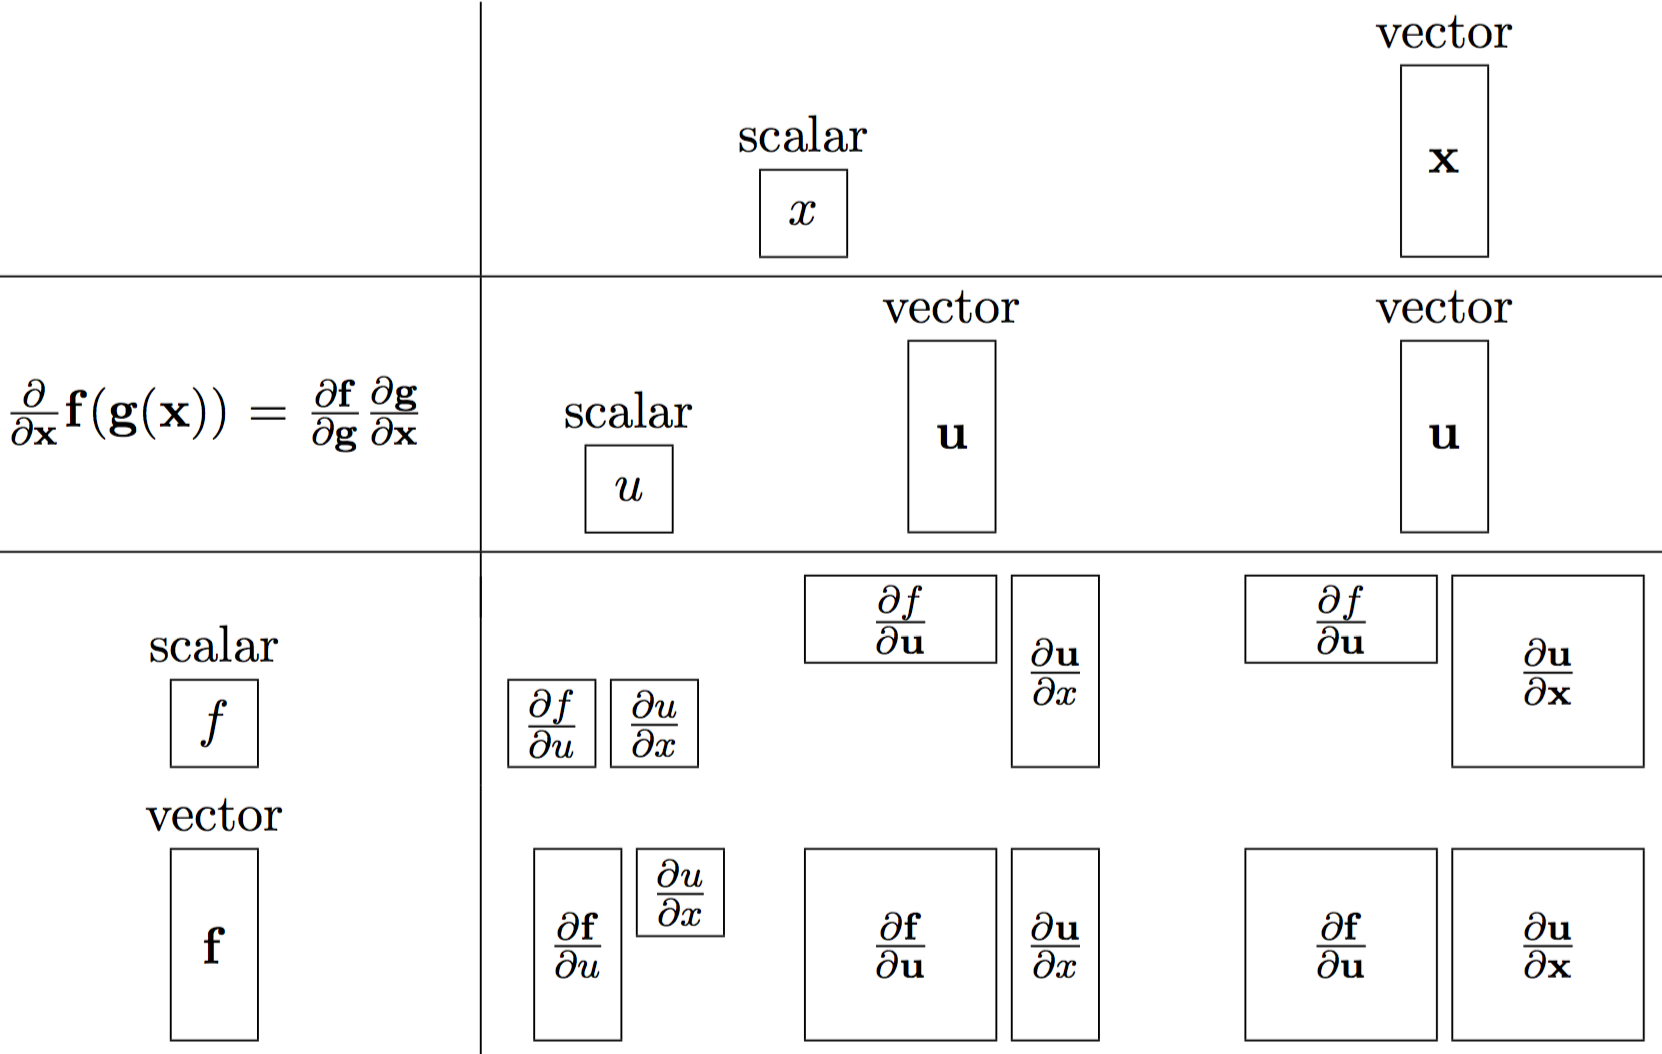
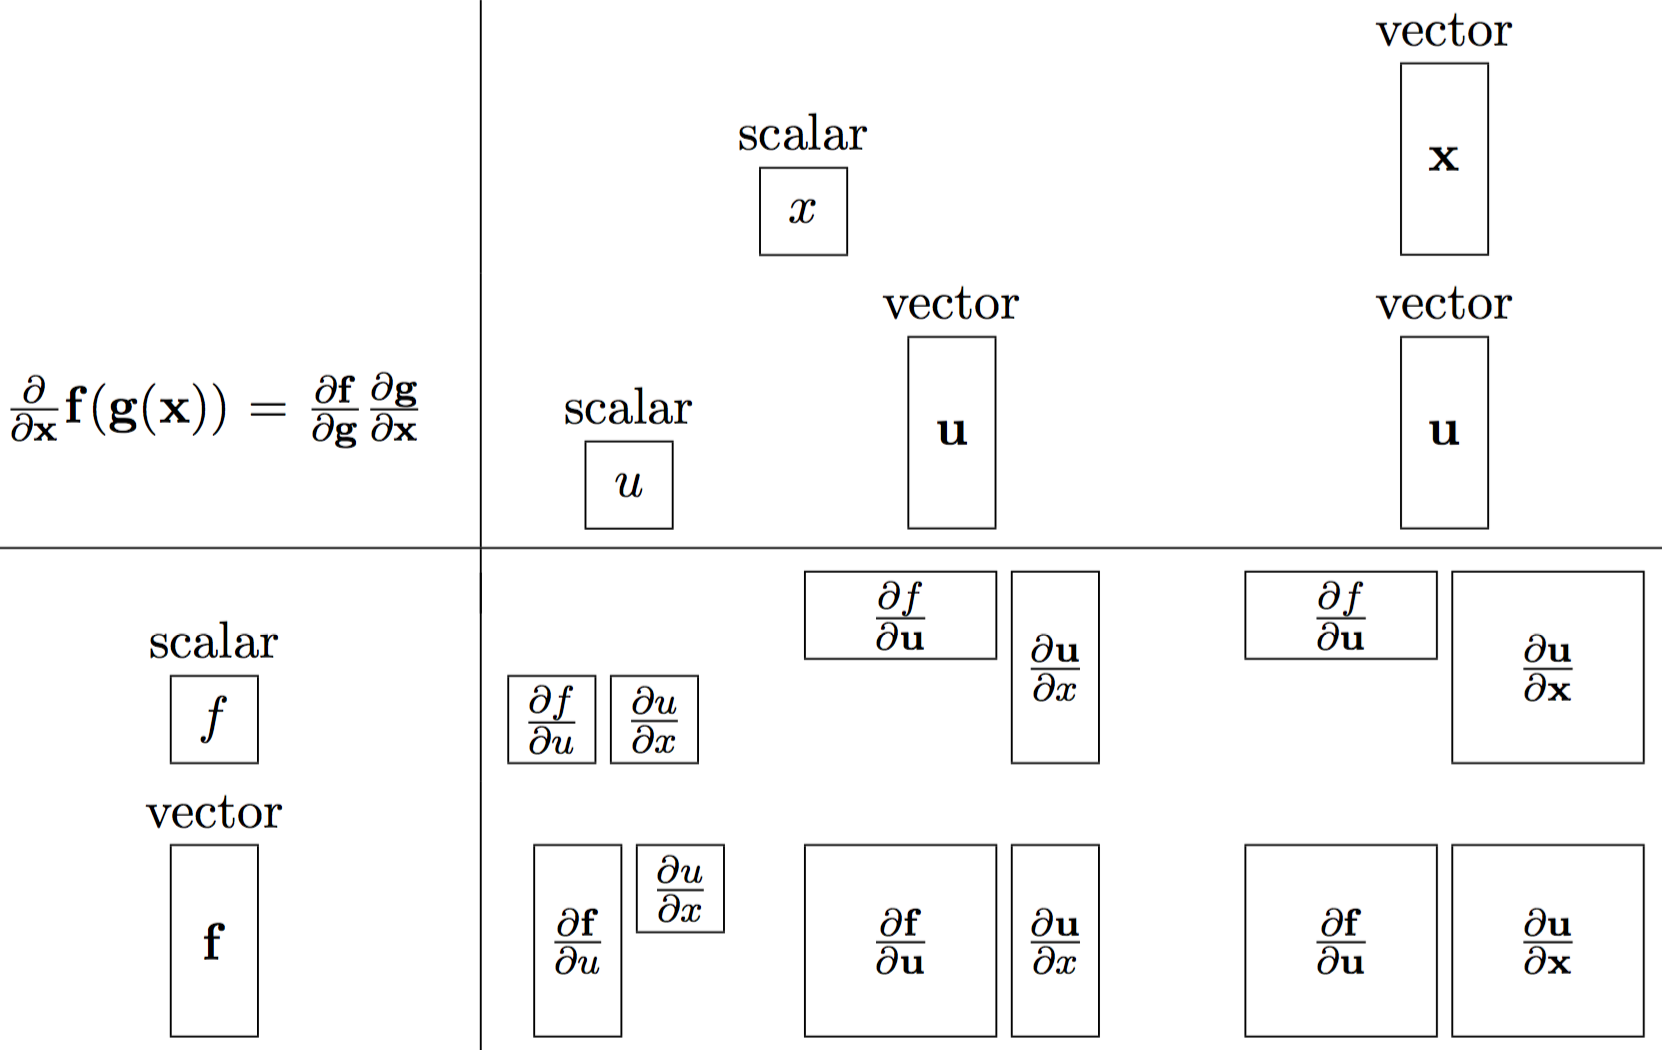
conversion

diff --git a/images/tex2svg.py b/images/tex2svg.py
@@ -1,0 +1,87 @@
+#!/usr/bin/env python3
+
+# I got it here: https://gist.github.com/W4RH4WK/14c42596de935af6d009
+
+""" Convert LaTeX to SVG
+
+This script will read LaTeX from stdin into a temporary file, compile it,
+convert it to SVG and write it to stdout. Temporary files are removed upon
+success.
+
+Usage: ./tex2svg [template]
+
+    This script takes one optional parameter, a LaTeX template. All occurences
+    of `%BODY%` will be replaced with the data read from stdin.
+
+Requires:
+    - XeTeX
+    - pdf2svg
+    - pdfcrop
+"""
+
+import os
+import sys
+import shutil
+
+from tempfile import mkdtemp
+from subprocess import check_call, CalledProcessError
+
+__author__ = 'Alex Hirsch'
+
+# parrt tweaked some of this
+
+TPL = r"""\documentclass[xetex,fontsize=12pt]{scrartcl}
+\usepackage{amsmath}
+\usepackage{amssymb}
+\usepackage{amsfonts}
+\usepackage{%FONT%}
+\begin{document}
+\thispagestyle{empty}
+%BODY%
+\end{document}
+"""
+
+
+def main(argv):
+    tpl = TPL
+    font = 'lmodern'
+    i = 1
+    if len(argv)>1 and argv[i]=='-font':
+        i += 1
+        font = argv[i]
+        i += 1
+
+    cwd = os.getcwd()
+    tmp = mkdtemp(prefix='tex2svg_')
+    #print(tmp)
+    os.chdir(tmp)
+
+    tpl = tpl.replace('%BODY%', sys.stdin.read())
+    tpl = tpl.replace('%FONT%', font)
+    with open('temp.tex', 'w') as ftex:
+        ftex.write(tpl)
+
+    cmds = [['xelatex', '-shell-escape', 'temp.tex'],
+            ['pdfcrop', 'temp.pdf'],
+            ['pdf2svg', 'temp-crop.pdf', 'temp.svg']]
+
+    log_path = os.path.join(tmp, 'output.log')
+
+    try:
+        with open(log_path, 'w') as flog:
+            for cmd in cmds:
+                check_call(cmd, stdout=flog, stderr=flog)
+    except CalledProcessError:
+        print('{}: An error occured, check {}'.format(argv[0], log_path),
+              file=sys.stderr)
+        return -1
+
+    with open('temp.svg', 'r') as fsvg:
+        shutil.copyfileobj(fsvg, sys.stdout)
+
+    os.chdir(cwd)
+    shutil.rmtree(tmp)
+
+
+if __name__ == "__main__":
+    sys.exit(main(sys.argv))

diff --git a/images/matrix-calculus.tex b/images/matrix-calculus.tex
@@ -802,8 +802,6 @@ After slogging through all of that mathematics, here's the payoff. All you need 
   vector\\
   \framebox(18,40){$\mathbf{x}$}\\
   \end{tabular} \\
-
-  \hline
   
   \begin{tabular}{c}$\frac{\partial}{\partial \mathbf{x}} \mathbf{f}(\mathbf{g}(\mathbf{x}))$
 	   = $\frac{\partial \mathbf{f}}{\partial \mathbf{g}}\frac{\partial\mathbf{g}}{\partial \mathbf{x}}$

diff --git a/images/matrix-calculus.md b/images/matrix-calculus.md
@@ -305,7 +305,7 @@ That gives us $\frac{\partial (\mathbf{w+x})}{\partial \mathbf{w}} = \frac{\part
 
 Given the simplicity of this special case, $f_i(\mathbf{w})$ reducing to $f_i(w_i)$, you should be able to derive the Jacobians for the common element-wise binary operations on vectors:
 
-\\[\begin{array}{lllll}
+\\[\begin{eqnarray*}
 \text{Op} & \text{Partial with respect to } \mathbf{w} & \text{Partial with respect to }\mathbf{x}\\
 \hline\\
 
@@ -317,7 +317,7 @@ Given the simplicity of this special case, $f_i(\mathbf{w})$ reducing to $f_i(w_
 
 \oslash & \frac{\partial (\mathbf{w \oslash x})}{\partial \mathbf{w}}  =  diag(\ldots\frac{\partial (w_i / x_i)}{\partial w_i}\ldots)  =  diag(\ldots \frac{1}{x_i} \ldots) & \frac{\partial (\mathbf{w \oslash x})}{\partial \mathbf{x}}  =  diag(\ldots \frac{-w_i}{x_i^2} \ldots)\\
 
-\end{array}\\]
+\end{eqnarray*}\\]
 
 The $\otimes$ and $\oslash$ operators are element-wise multiplication and division; $\otimes$ is sometimes called the *Hadamard product*. There isn't a standard notation for element-wise multiplication and division so where using an approach consistent with our general binary operation notation.
 
@@ -590,14 +590,13 @@ We can achieve that by simply introducing a new temporary variable as an alias f
 
 This chain rule that takes into consideration the total derivative degenerates to the single-variable chain rule when all intermediate variables are functions of a single variable.   Consequently, you can remember this more general formula to cover both cases.  As a bit of dramatic foreshadowing, notice that the summation sure looks like a vector dot product, $\frac{\partial f}{\partial \mathbf{u}} \cdot \frac{\partial \mathbf{u}}{\partial x}$, or  a vector multiply $\frac{\partial f}{\partial \mathbf{u}} \frac{\partial \mathbf{u}}{\partial x}$. 
  
-Before we move on, a word of caution about terminology on the web. Unfortunately, the chain rule given in this section, based upon the total derivative, is universally called ``multivariable chain rule'' in calculus discussions, which is highly misleading! Only the intermediate variables are multivariate functions. The overall function, say, $f(x) = x + x^2$, is a scalar function that accepts a single parameter $x$. The derivative and parameter are scalars, not vectors, as one would expect with a so-called multivariate chain rule.  (Within the context of a non-matrix calculus class, ``multivariate chain rule'' is likely unambiguous.) To reduce confusion, we use ``single-variable total-derivative chain rule'' to spell out the distinguishing feature between the simple single-variable chain rule, $\frac{dy}{dx} = \frac{dy}{du}\frac{du}{dx}$, and this one. 
+Before we move on, a word of caution about terminology on the web. Unfortunately, the chain rule given in this section, based upon the total derivative, is universally called "multivariable chain rule" in calculus discussions, which is highly misleading! Only the intermediate variables are multivariate functions. The overall function, say, $f(x) = x + x^2$, is a scalar function that accepts a single parameter $x$. The derivative and parameter are scalars, not vectors, as one would expect with a so-called multivariate chain rule.  (Within the context of a non-matrix calculus class, "multivariate chain rule" is likely unambiguous.) To reduce confusion, we use "single-variable total-derivative chain rule" to spell out the distinguishing feature between the simple single-variable chain rule, $\frac{dy}{dx} = \frac{dy}{du}\frac{du}{dx}$, and this one. 
 
 \subsubsection{Vector chain rule}
 
 Now that we've got a good handle on the total-derivative chain rule, we're ready to tackle the chain rule for vectors of functions and vector variables. Surprisingly, this more general chain rule is just as simple looking as the single-variable chain rule for scalars. Rather than just presenting the vector chain rule, let's rediscover it ourselves so we get a firm grip on it. We can start by computing the derivative of a sample vector function with respect to a scalar, $\mathbf{y} = \mathbf{f}(x)$, to see if we can abstract a general formula.   
 
-$
-\begin{bmatrix}
+\\[\begin{bmatrix}
 	y_1(x)\\
 	y_2(x)\\
 \end{bmatrix} =
@@ -609,34 +608,31 @@ $
 	ln(x^2)\\
 	sin(3x)
 \end{bmatrix}
-$
+\\]
 
 Let's introduce two intermediate variables, $g_1$ and $g_2$, one for each $f_i$ so that $y$ looks more like $\mathbf{y} = \mathbf{f}(\mathbf{g}(x))$:
 
-$
-\begin{bmatrix}
+\\[ \begin{bmatrix}
 	g_1(x)\\
 	g_2(x)\\
 \end{bmatrix} = \begin{bmatrix}
 	x^2\\
 	3x\\
 \end{bmatrix}
-$
+\\]
 
-$
-\begin{bmatrix}
+\\[ \begin{bmatrix}
 	f_1(\mathbf{g})\\
 	f_2(\mathbf{g})\\
 \end{bmatrix} = \begin{bmatrix}
 	ln(g_1)\\
 	sin(g_2)\\
-\end{bmatrix}
-$
+\end{bmatrix}\\]
 
 
 The derivative of vector $\mathbf{y}$ with respect to scalar $x$ is a vertical vector with elements computed using the single-variable total-derivative chain rule:
 
-$\frac{\partial \mathbf{y}}{\partial x}  =
+\\[ \frac{\partial \mathbf{y}}{\partial x}  =
 \begin{bmatrix}
 	\frac{\partial f_1(\mathbf{g})}{\partial x}\\
 	\frac{\partial f_2(\mathbf{g})}{\partial x}\\
@@ -652,21 +648,18 @@ $\frac{\partial \mathbf{y}}{\partial x}  =
 \end{bmatrix} = \begin{bmatrix}
 	\frac{2}{x}\\
 	3cos(3x)\\
-\end{bmatrix}
-$
+\end{bmatrix}\\]
 
 Ok, so now we have the answer using just the scalar rules, albeit with the derivatives grouped into a vector. Let's try to abstract from that result what it looks like in vector form.  The goal is to convert the following vector of scalar operations to a vector operation. 
 
-$
-\begin{bmatrix}
+\\[ \begin{bmatrix}
 	\frac{\partial f_1}{\partial g_1}\frac{\partial g_1}{\partial x} + \frac{\partial f_1}{\partial g_2}\frac{\partial g_2}{\partial x}\\
 	\frac{\partial f_2}{\partial g_1}\frac{\partial g_1}{\partial x} + \frac{\partial f_2}{\partial g_2}\frac{\partial g_2}{\partial x}\\
-\end{bmatrix}
-$
+\end{bmatrix} \\]
 
 If we split the $\frac{\partial f_i}{\partial g_j}\frac{\partial g_j}{\partial x}$ terms, isolating the $\frac{\partial g_j}{\partial x}$ terms into a vector, we get a matrix by vector multiplication:
 
-$
+\\[
 \begin{bmatrix}
 	\frac{\partial f_1}{\partial g_1} & \frac{\partial f_1}{\partial g_2}\\
 	\frac{\partial f_2}{\partial g_1} & \frac{\partial f_2}{\partial g_2}\\
@@ -674,11 +667,11 @@ $
 \frac{\partial g_1}{\partial x}\\
 \frac{\partial g_2}{\partial x}\\
 \end{bmatrix} = \frac{\partial \mathbf{f}}{\partial \mathbf{g}}\frac{\partial \mathbf{g}}{\partial x}
-$
+\\]
 
 That means that the Jacobian is the multiplication of two other Jacobians, which is kinda cool.  Let's check our results:
 
-$
+\\[
 \frac{\partial \mathbf{f}}{\partial \mathbf{g}}\frac{\partial \mathbf{g}}{\partial x} = \begin{bmatrix}
 	\frac{1}g_1 & 0\\
 	0 & cos(g_2)\\
@@ -692,7 +685,7 @@ $
 	\frac{2}{x}\\
 	3cos(3x)\\
 \end{bmatrix}
-$
+\\]
 
 Whew!  We get the same answer as the scalar approach. This vector chain rule for vectors of functions and a single parameter appears to be correct and, indeed, mirrors the single-variable chain rule. Compare the vector rule:
 
@@ -708,7 +701,7 @@ $\frac{\partial}{\partial \mathbf{x}} \mathbf{f}(\mathbf{g}(\mathbf{x})) = \frac
 
 The beauty of the vector formula over the single-variable chain rule is that it automatically takes into consideration the total derivative while maintaining the same notational simplicity.  The Jacobian contains all possible combinations of $f_i$ with respect to $g_j$ and $g_i$ with respect to $x_j$. For completeness, here are the two Jacobian components in their full glory:
 
-$
+\\[
 \frac{\partial}{\partial \mathbf{x}} \mathbf{f}(\mathbf{g}(\mathbf{x})) = \begin{bmatrix}
 	\frac{\partial f_1}{\partial g_1} & \frac{\partial f_1}{\partial g_2} & \ldots & \frac{\partial f_1}{\partial g_k}\\
 	\frac{\partial f_2}{\partial g_1} & \frac{\partial f_2}{\partial g_2} & \ldots & 	
@@ -722,7 +715,7 @@ $
 	& &\ldots\\
 	\frac{\partial g_k}{\partial x_1} & \frac{\partial g_k}{\partial x_2} & \ldots & \frac{\partial g_k}{\partial x_n}\\
 \end{bmatrix}
-$
+\\]
 
 where $m=|f|$, $n=|x|$, and $k=|g|$. The resulting Jacobian is $m \times n$ (an $m \times k$ matrix multiplied by a $k \times n$ matrix). 
 
@@ -1133,25 +1126,26 @@ Vector dot product $y = \mathbf{f(w)} \cdot \mathbf{g(x)} = \Sigma_i^n (w_i x_i)
 \frac{dy}{d\mathbf{u}} = \frac{d}{d\mathbf{u}} sum(\mathbf{u}) = \vec{1}^T\\\\
 \frac{dy}{d\mathbf{x}} = \frac{dy}{d\mathbf{u}} \times \frac{d\mathbf{u}}{d\mathbf{x}} = \vec{1}^T \times diag(\mathbf{w}) = \mathbf{w}^T
 \end{array}
-\\\]
+\\]
 
 Similarly, $\frac{dy}{d\mathbf{w}} = \mathbf{x}^T$.
-
 
 ## Chain rules
 
 The *vector chain rule* is the general form as it degenerates to the others. When $f$ is a function of a single variable $x$ and all intermediate variables $u$ are functions of a single variable, the single-variable chain rule applies. When some or all of the intermediate variables are functions of multiple variables, the single-variable total-derivative chain rule applies. In all other cases, the vector chain rule applies.
 
-\begin{tabular}{ccc}
-\bf{Single-variable rule} & \bf{Single-variable total-derivative rule} & \bf{Vector  rule}\\\\
+<table>
+<tr>
+<th>Single-variable rule</th><th>Single-variable total-derivative rule</th><th>Vector  rule</th>
+</tr>
+<tr>
+<td>$\frac{df}{dx} = \frac{df}{du}\frac{du}{dx}$</td>
 
-$\frac{df}{dx} = \frac{df}{du}\frac{du}{dx}$ &
+<td>$\frac{\partial f(u_1,\ldots,u_n)}{\partial x} = \frac{\partial f}{\partial \mathbf{u}} \frac{\partial \mathbf{u}}{\partial x}$</td>
 
-$\frac{\partial f(u_1,\ldots,u_n)}{\partial x} = \frac{\partial f}{\partial \mathbf{u}} \frac{\partial \mathbf{u}}{\partial x}$ &
-
-$\frac{\partial}{\partial \mathbf{x}} \mathbf{f}(\mathbf{g}(\mathbf{x})) = \frac{\partial \mathbf{f}}{\partial \mathbf{g}}\frac{\partial\mathbf{g}}{\partial \mathbf{x}}$
-\end{tabular}
-
+<td>$\frac{\partial}{\partial \mathbf{x}} \mathbf{f}(\mathbf{g}(\mathbf{x})) = \frac{\partial \mathbf{f}}{\partial \mathbf{g}}\frac{\partial\mathbf{g}}{\partial \mathbf{x}}$</td>
+</tr>
+</table>
 
 # Resources
 
